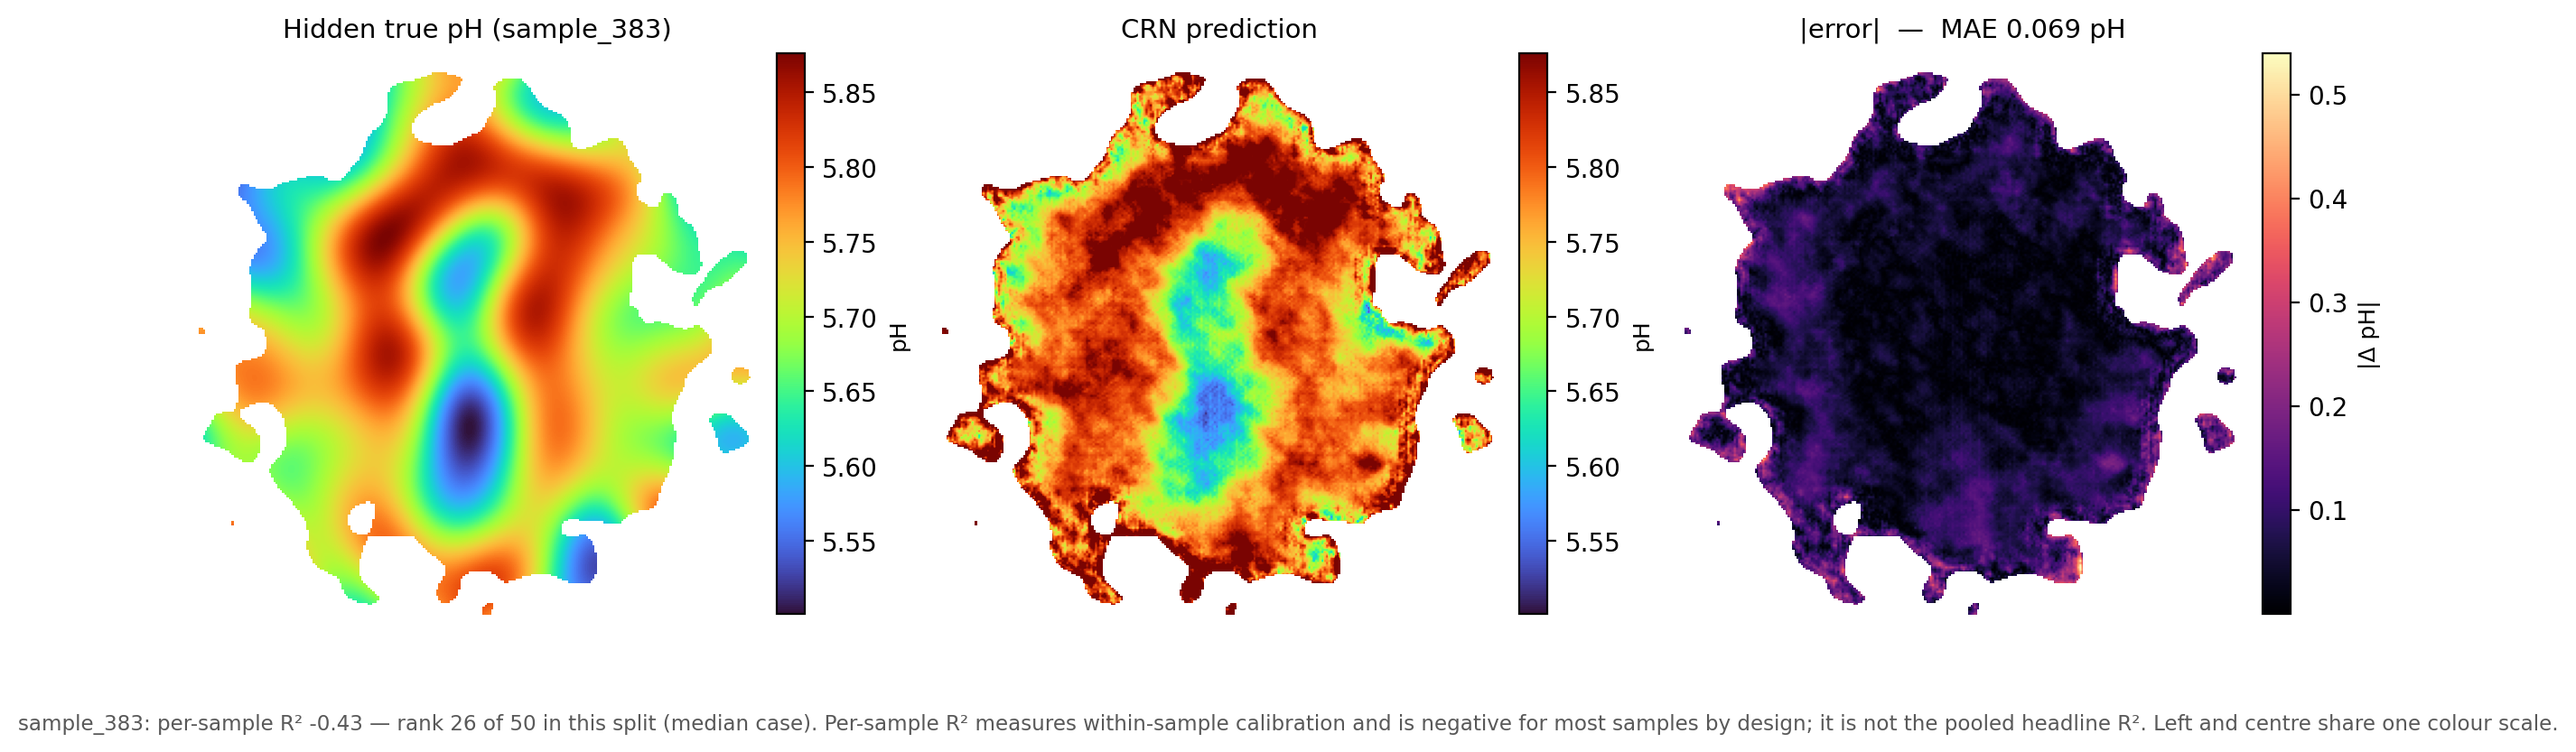
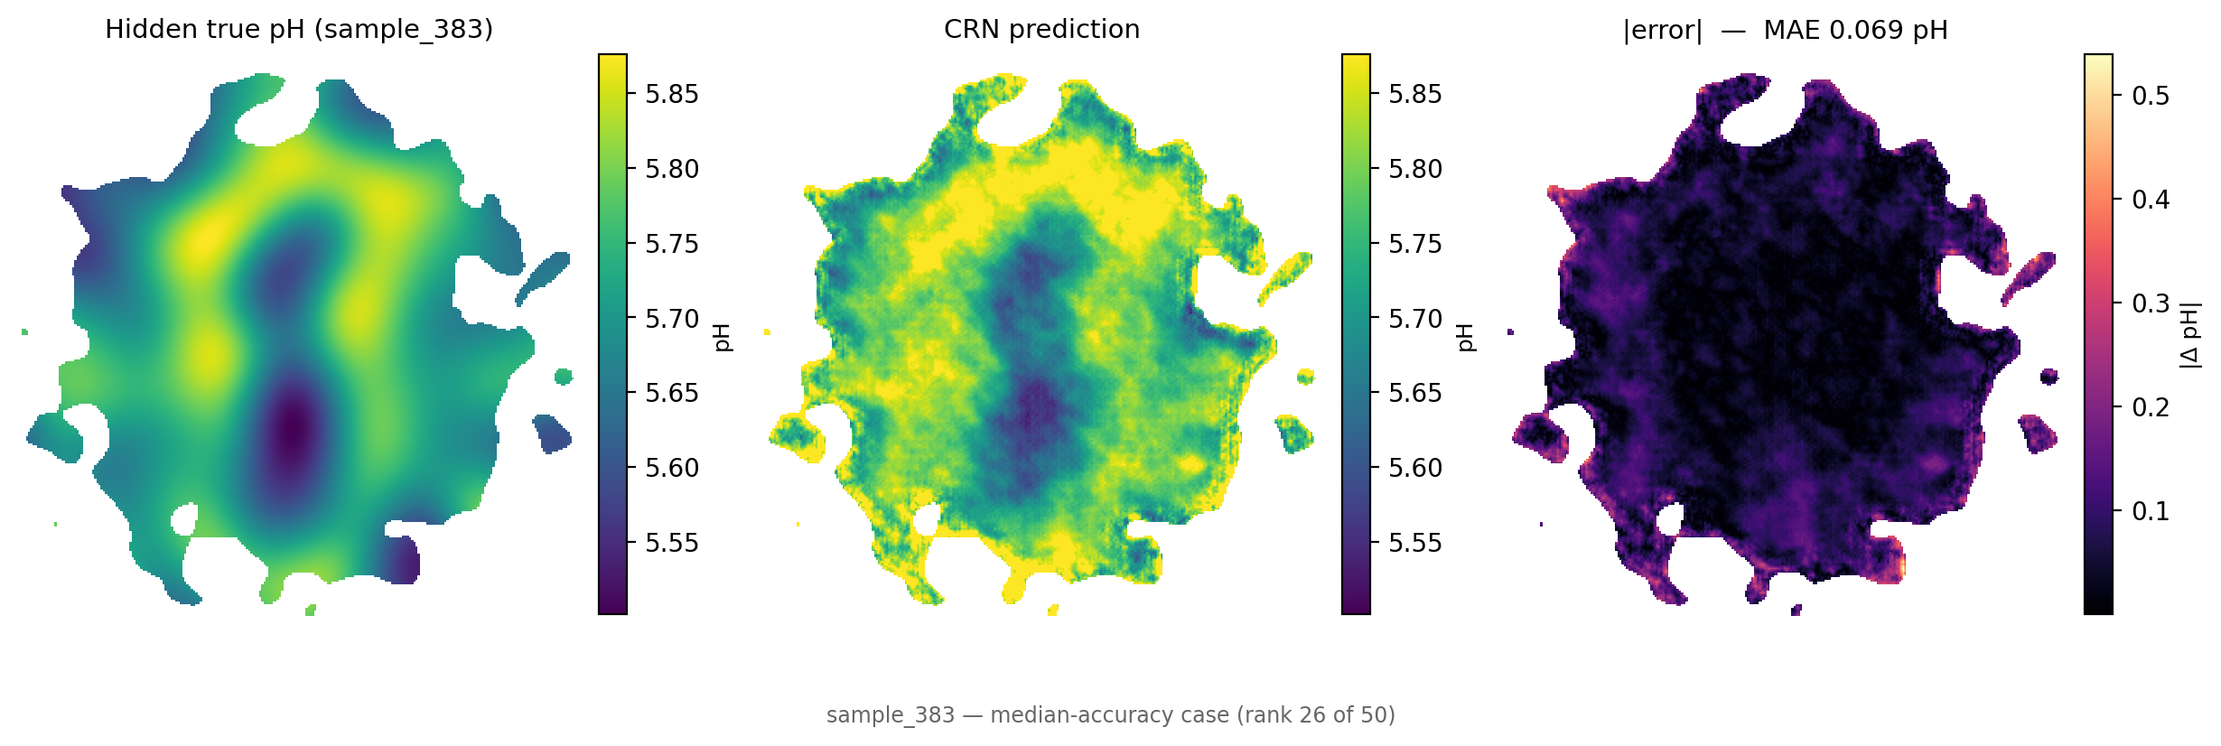
Audit every cited figure against its section; restyle figures as journal figures
Audit. RESULTS.md cites six figures. Checking that each actually SHOWS what
its section claims -- not merely that the file exists -- found three problems
beyond the sweep chart already fixed in 5509b6f:

1. Section 4 states between-sample pH SD 0.3036 and within-sample 0.0843, and
   cites fig_ph_distribution.png as support. The figure reads 0.3038 / 0.0865.
   Traced: the section's numbers come from spatial_skill_official.json, which
   ran on the 50-sample VALIDATION split; the figure covers all 400 frozen
   samples. Confirmed by computing each split directly --
   train 0.3036/0.0865, val 0.3036/0.0843, test 0.2950/0.0888. Neither number
   is wrong, but nothing said they were different scopes, so text and figure
   read as a contradiction. The figure now states its scope on-axis and the
   citation spells out the difference.

2. Section 1 cited crn_5seed_final/seed_*/loss_curve.png for training curves.
   Those are raw per-seed training artefacts, superseded by
   figures/fig_loss_curves.png. Not contradictory -- they plot loss and MAE,
   never R2, so the metric bug does not reach them -- but the manuscript
   figure is the right citation. Both are now named.

3. Section 1 cited fig_system_output.png as the evidence for predictive
   accuracy. That figure shows input and prediction with no ground truth and
   no error panel, so it cannot evidence accuracy on its own.
   fig_heatmap_example.png is now cited first.
[…]

diff --git a/make_figures.py b/make_figures.py
@@ -60,6 +60,8 @@ DPI = 200
 C_LIN = "#1F6F78"    # Linear regression  (teal)
 C_PLS = "#C9761A"    # PLSR               (orange)
 C_CRN = "#8C1D2E"    # CRN                (deep red -- the project's primary)
+CMAP_PH = "viridis"  # sequential, perceptually uniform, greyscale-safe
+CMAP_ERR = "magma"   # sequential; dark = low error
 C_TRAIN = C_LIN      # training loss
 C_VAL = C_CRN        # validation loss
 
@@ -95,7 +97,7 @@ def fig_dataset_sample(data_dir, sample_id, out_path):
     ax.axis("off")
 
     ax = fig.add_subplot(gs[1, 2:4])
-    im = ax.imshow(np.where(mask, ph, np.nan), cmap="turbo")
+    im = ax.imshow(np.where(mask, ph, np.nan), cmap=CMAP_PH)
     for p in pts:
         r, c = p["pixel_coord"]
         ax.plot(c, r, "x", color="white", markersize=9, markeredgewidth=2.2)
@@ -110,19 +112,12 @@ def fig_dataset_sample(data_dir, sample_id, out_path):
     ax.set_title(f"Tissue mask\n({100*mask.mean():.0f}% of frame)", fontsize=10)
     ax.axis("off")
 
-    res = meta.get("resolution", "256×256")
-    dims = meta.get("roi_dimensions_cm", "")
-    fig.text(0.5, 0.015,
-             f"{sample_id} — {res} px, ROI {dims} cm. The model receives only the six bands; "
-             f"the dense pH map is never seen during training.",
-             ha="center", fontsize=8.5, color="0.35")
-
     fig.savefig(out_path, dpi=DPI, bbox_inches="tight")
     plt.close(fig)
     print(f"  wrote {out_path}")
 
 
-def fig_ph_distribution(data_dir_glob, out_path, max_samples=400):
+def fig_ph_distribution(data_dir_glob, out_path, max_samples=400, scope_label=None):
     files = sorted(glob.glob(data_dir_glob))[:max_samples]
     sample_means, within_sds, all_vals = [], [], []
     for f in files:
@@ -159,12 +154,12 @@ def fig_ph_distribution(data_dir_glob, out_path, max_samples=400):
         a.spines[["top", "right"]].set_visible(False)
         a.tick_params(labelsize=8.5)
 
-    ratio = sample_means.std() / within_sds.mean()
-    fig.text(0.5, -0.06,
-             f"Between-sample spread is {ratio:.1f}× larger than within-sample spread. "
-             f"pH is drawn uniformly per sample by design, for even coverage of the "
-             f"physiological range — not to mimic a population distribution.",
-             ha="center", fontsize=8.5, color="0.35")
+    # State the scope on the figure. RESULTS.md section 4 quotes the same two
+    # statistics computed on the 50-sample VALIDATION split (0.3036 / 0.0843);
+    # this figure covers all splits. Without the label the two read as a
+    # contradiction rather than as two different scopes.
+    if scope_label:
+        ax[0].set_ylabel(f"samples\n({scope_label})", fontsize=9)
 
     fig.tight_layout()
     fig.savefig(out_path, dpi=DPI, bbox_inches="tight")
@@ -244,7 +239,8 @@ def main():
     # -- Chapter 3 ------------------------------------------------------
     fig_dataset_sample(d, sample, os.path.join(a.out, "fig_dataset_sample.png"))
     fig_ph_distribution(os.path.join(a.data, "*", "*_phtrue.npy"),
-                        os.path.join(a.out, "fig_ph_distribution.png"))
+                        os.path.join(a.out, "fig_ph_distribution.png"),
+                        scope_label="all 400 frozen samples")
 
     # -- Chapter 4 ------------------------------------------------------
     if os.path.exists(a.sweep_table):
@@ -305,15 +301,12 @@ def fig_system_output(data_dir, sample_id, ckpt, out_path):
     ax[0].imshow(rgb); ax[0].axis("off")
     ax[0].set_title("Input: six-band multispectral capture\n(RGB composite shown)", fontsize=10.5)
 
-    im = ax[1].imshow(np.where(mask, pred, np.nan), cmap="turbo")
+    im = ax[1].imshow(np.where(mask, pred, np.nan), cmap=CMAP_PH)
     ax[1].axis("off")
     ax[1].set_title("Output: predicted pH distribution", fontsize=10.5)
     cb = fig.colorbar(im, ax=ax[1], fraction=0.046, pad=0.03)
     cb.set_label("pH", fontsize=9.5)
 
-    fig.text(0.5, 0.02, "The system requires no ground-truth pH at inference; "
-                        "the map is estimated from spectral reflectance alone.",
-             ha="center", fontsize=8.5, color="0.35")
     fig.tight_layout(rect=[0, 0.05, 1, 1])
     fig.savefig(out_path, dpi=DPI, bbox_inches="tight")
     plt.close(fig)
@@ -356,15 +349,12 @@ def fig_prediction_gallery(data_dir, ckpt, out_path, n=4):
     fig, ax = plt.subplots(2, n, figsize=(3.1*n, 6.6))
     for j, ((sid, mae, ph, p, m), lbl) in enumerate(zip(picks, labels)):
         lo = np.nanmin(np.where(m, ph, np.nan)); hi = np.nanmax(np.where(m, ph, np.nan))
-        ax[0, j].imshow(np.where(m, ph, np.nan), cmap="turbo", vmin=lo, vmax=hi)
+        ax[0, j].imshow(np.where(m, ph, np.nan), cmap=CMAP_PH, vmin=lo, vmax=hi)
         ax[0, j].set_title(f"{lbl}\nground truth", fontsize=9.5); ax[0, j].axis("off")
-        im = ax[1, j].imshow(np.where(m, p, np.nan), cmap="turbo", vmin=lo, vmax=hi)
+        im = ax[1, j].imshow(np.where(m, p, np.nan), cmap=CMAP_PH, vmin=lo, vmax=hi)
         ax[1, j].set_title(f"predicted — MAE {mae:.3f} pH", fontsize=9.5); ax[1, j].axis("off")
         fig.colorbar(im, ax=ax[1, j], fraction=0.046, pad=0.03)
 
-    fig.text(0.5, 0.015, "Samples selected by per-sample error percentile, not by inspection. "
-                         "Each column shares a colour scale between truth and prediction.",
-             ha="center", fontsize=8.5, color="0.35")
     fig.tight_layout(rect=[0, 0.04, 1, 1])
     fig.savefig(out_path, dpi=DPI, bbox_inches="tight")
     plt.close(fig)
@@ -409,33 +399,27 @@ def fig_loss_curves(hist_path, out_path, seed=None):
     if best_i < len(ep) - 1:
         ax.axvspan(best_ep, ep[-1], color="0.88", alpha=.55, zorder=0, lw=0)
         ax.text(best_ep + (ep[-1] - best_ep) / 2, ax.get_ylim()[1] * 0.92,
-                "logged past the checkpoint\n(not used)", ha="center", va="top",
-                fontsize=8, color="0.45", zorder=1)
+                "after checkpoint", ha="center", va="top",
+                fontsize=8, color="0.5", zorder=1)
 
     ax.axvline(best_ep, color="0.25", lw=1.4, ls=":", zorder=2)
     ax.plot([best_ep], [va[best_i]], "o", ms=11, mfc="none",
             mec="0.15", mew=2, zorder=4)
-    ax.annotate(f"early-stopping checkpoint\nepoch {best_ep}",
+    ax.annotate(f"checkpoint (epoch {best_ep})",
                 xy=(best_ep, va[best_i]), xytext=(26, 12),
-                textcoords="offset points", fontsize=9,
-                ha="left", color="0.15",
-                arrowprops=dict(arrowstyle="-", color="0.35", lw=1))
+                textcoords="offset points", fontsize=8.5,
+                ha="left", color="0.3",
+                arrowprops=dict(arrowstyle="-", color="0.55", lw=.9))
 
     ax.set_xlabel("epoch")
     ax.set_ylabel("sparse-point MSE loss")
     ax.xaxis.set_major_locator(plt.MaxNLocator(integer=True))
-    ax.set_title(f"CRN training and validation loss — seed {seed}", fontsize=11.5)
+    ax.set_title(f"Training and validation loss (seed {seed})", fontsize=11, pad=10)
     ax.set_yscale("log")
     ax.spines[["top", "right"]].set_visible(False)
     ax.grid(axis="y", color="0.9", lw=.8, zorder=0)
     ax.set_axisbelow(True)
     ax.legend(frameon=False, fontsize=9.5)
-
-    fig.text(0.5, -0.04,
-             f"Seed {seed} selected as the seed whose held-out pooled R² is closest to the "
-             f"5-seed mean — not for curve appearance. The checkpoint is chosen on validation "
-             f"loss; epochs after it are shown to make the divergence visible.",
-             ha="center", fontsize=8.3, color="0.35", wrap=True)
 
     fig.tight_layout()
     fig.savefig(out_path, dpi=DPI, bbox_inches="tight")
@@ -482,31 +466,25 @@ def fig_sweep_comparison(table_path, out_path):
             label="PLSR", zorder=3)
 
     # the adopted operating point
-    ax.axvline(0.4, color="0.3", lw=1.2, ls=":", zorder=1)
-    ax.annotate("adopted\noperating point", xy=(0.4, 0.34), xytext=(0.435, 0.30),
-                fontsize=8.5, color="0.3", ha="left")
+    ax.axvline(0.4, color="0.55", lw=1, ls=":", zorder=1)
+    ax.annotate("operating point", xy=(0.4, 0.29), xytext=(0.412, 0.275),
+                fontsize=8, color="0.45", ha="left")
 
     for x, y, e in zip(amp, crn, sd):
         ax.annotate(f"{y:.3f}", xy=(x, y + e), xytext=(0, 9),
                     textcoords="offset points", ha="center",
-                    fontsize=8.4, color=C_CRN, weight="bold")
+                    fontsize=8.2, color="0.25")
 
-    ax.set_xlabel("denat_amplitude  (swept — the parameter with no citation)")
+    ax.set_xlabel("denat_amplitude")
     ax.set_ylabel("held-out R²")
-    ax.set_title("CRN vs conventional baselines across the parameter sweep", fontsize=11.5)
+    ax.set_title("CRN vs conventional baselines across the parameter sweep",
+                 fontsize=11, pad=12)
     ax.set_xticks(amp)
     ax.set_ylim(0.25, 1.0)
     ax.spines[["top", "right"]].set_visible(False)
     ax.grid(axis="y", color="0.9", lw=.8, zorder=0)
     ax.set_axisbelow(True)
     ax.legend(frameon=False, fontsize=9.5, loc="lower right")
-
-    seeds_txt = ", ".join(f"{a}: n={n}" for a, n in zip(amp, nseed))
-    fig.text(0.5, -0.05,
-             f"The CRN margin over both baselines holds across the whole swept range, so the "
-             f"conclusion does not depend on the uncited value. Linear and PLSR overlap almost "
-             f"exactly at every amplitude. CRN seeds per point — {seeds_txt}.",
-             ha="center", fontsize=8.3, color="0.35", wrap=True)
 
     fig.tight_layout()
     fig.savefig(out_path, dpi=DPI, bbox_inches="tight")
@@ -570,24 +548,20 @@ def fig_heatmap_example(data_dir, ckpt, out_path, prefer=None):
     vmin, vmax = np.nanmin(t_masked), np.nanmax(t_masked)
 
     fig, ax = plt.subplots(1, 3, figsize=(12.4, 4.3))
-    im0 = ax[0].imshow(t_masked, cmap="turbo", vmin=vmin, vmax=vmax)
+    im0 = ax[0].imshow(t_masked, cmap=CMAP_PH, vmin=vmin, vmax=vmax)
     ax[0].set_title(f"Hidden true pH ({sid})", fontsize=10.5); ax[0].axis("off")
     fig.colorbar(im0, ax=ax[0], fraction=.046, pad=.03).set_label("pH", fontsize=9)
 
-    im1 = ax[1].imshow(p_masked, cmap="turbo", vmin=vmin, vmax=vmax)
+    im1 = ax[1].imshow(p_masked, cmap=CMAP_PH, vmin=vmin, vmax=vmax)
     ax[1].set_title("CRN prediction", fontsize=10.5); ax[1].axis("off")
     fig.colorbar(im1, ax=ax[1], fraction=.046, pad=.03).set_label("pH", fontsize=9)
 
-    im2 = ax[2].imshow(err, cmap="magma")
+    im2 = ax[2].imshow(err, cmap=CMAP_ERR)
     ax[2].set_title(f"|error|  —  MAE {r['mae']:.3f} pH", fontsize=10.5); ax[2].axis("off")
     fig.colorbar(im2, ax=ax[2], fraction=.046, pad=.03).set_label("|Δ pH|", fontsize=9)
 
-    fig.text(0.5, 0.02,
-             f"{sid}: per-sample R² {r['r2']:.2f} — rank {rank} of {len(order)} in this split "
-             f"(median case). Per-sample R² measures within-sample calibration and is negative "
-             f"for most samples by design; it is not the pooled headline R². "
-             f"Left and centre share one colour scale.",
-             ha="center", fontsize=8.3, color="0.35")
+    fig.text(0.5, 0.03, f"{sid} — median-accuracy case (rank {rank} of {len(order)})",
+             ha="center", fontsize=8.5, color="0.4")
 
     fig.tight_layout(rect=[0, 0.06, 1, 1])
     fig.savefig(out_path, dpi=DPI, bbox_inches="tight")

diff --git a/collect_results.py b/collect_results.py
@@ -208,7 +208,7 @@ def main():
         EV(summary=f"{MCO}/final_evaluation_TEST500.json",
            raw="crn_5seed_final/seed_{0..4}/history.json  (per-epoch training record)",
            script="evaluate_heatmap.py",
-           figure="figures/fig_system_output.png  (input → predicted map)",
+           figure="figures/fig_heatmap_example.png  (true / predicted / |error|, median-accuracy case); figures/fig_system_output.png  (input → predicted map, no ground truth shown)",
            note="Checkpoints `crn_5seed_final/seed_*/crn_best.pt` are excluded by size; "
                 "rerun `evaluate_heatmap.py` to regenerate the summary from them.")
 
@@ -252,7 +252,7 @@ def main():
         A("other, so every figure here is a mean across five runs with its standard deviation.\n")
         EV(raw="crn_5seed_final/seed_{0..4}/history.json  (loss and metrics per epoch)",
            script="train_crn.py --seed {0..4} --patience 10 --epochs 50",
-           figure="crn_5seed_final/seed_*/loss_curve.png  (training vs validation loss)",
+           figure="figures/fig_loss_curves.png  (training vs validation loss, representative seed; the raw per-seed artefacts are crn_5seed_final/seed_*/loss_curve.png)",
            note="`crn_5seed_final/run.log` holds the original console output of the run.")
 
     if out.get("amplitude_sweep"):
@@ -349,8 +349,8 @@ def main():
         EV(summary=f"{MCO}/spatial_skill_official.json  (official checkpoints); "
                    f"{MCO}/spatial_skill.json  (independent reproduction)",
            script="check_spatial_skill.py",
-           figure="figures/fig_ph_distribution.png  (shows the within- vs between-sample scales "
-                  "that make this measure punishing)")
+           figure="figures/fig_ph_distribution.png  (all 400 frozen samples — NOTE the scope: the two statistics quoted in this section are the 50-sample VALIDATION split, so the figure reads 0.3038 / 0.0865 where the text reads 0.3036 / 0.0843; same quantities, different scope) "
+                  "— the within- vs between-sample scales that make this measure punishing.")
 
     b = out.get("boundary_artefact")
     if b:

diff --git a/RESULTS.md b/RESULTS.md
@@ -43,7 +43,7 @@ usable pixel-wise pH maps.
 - **Summary values:** `metric_check_outputs/final_evaluation_TEST500.json`
 - **Raw per-run data:** `crn_5seed_final/seed_{0..4}/history.json  (per-epoch training record)`
 - **Produced by:** `evaluate_heatmap.py`
-- **Figure:** `figures/fig_system_output.png  (input → predicted map)`
+- **Figure:** `figures/fig_heatmap_example.png  (true / predicted / |error|, median-accuracy case); figures/fig_system_output.png  (input → predicted map, no ground truth shown)`
 - Checkpoints `crn_5seed_final/seed_*/crn_best.pt` are excluded by size; rerun `evaluate_heatmap.py` to regenerate the summary from them.
 
 </details>
@@ -91,7 +91,7 @@ other, so every figure here is a mean across five runs with its standard deviati
 
 - **Raw per-run data:** `crn_5seed_final/seed_{0..4}/history.json  (loss and metrics per epoch)`
 - **Produced by:** `train_crn.py --seed {0..4} --patience 10 --epochs 50`
-- **Figure:** `crn_5seed_final/seed_*/loss_curve.png  (training vs validation loss)`
+- **Figure:** `figures/fig_loss_curves.png  (training vs validation loss, representative seed; the raw per-seed artefacts are crn_5seed_final/seed_*/loss_curve.png)`
 - `crn_5seed_final/run.log` holds the original console output of the run.
 
 </details>
@@ -197,7 +197,7 @@ magnitude and overstates the weakness. Say which one.
 
 - **Summary values:** `metric_check_outputs/spatial_skill_official.json  (official checkpoints); metric_check_outputs/spatial_skill.json  (independent reproduction)`
 - **Produced by:** `check_spatial_skill.py`
-- **Figure:** `figures/fig_ph_distribution.png  (shows the within- vs between-sample scales that make this measure punishing)`
+- **Figure:** `figures/fig_ph_distribution.png  (all 400 frozen samples — NOTE the scope: the two statistics quoted in this section are the 50-sample VALIDATION split, so the figure reads 0.3038 / 0.0865 where the text reads 0.3036 / 0.0843; same quantities, different scope) — the within- vs between-sample scales that make this measure punishing.`
 
 </details>
 
